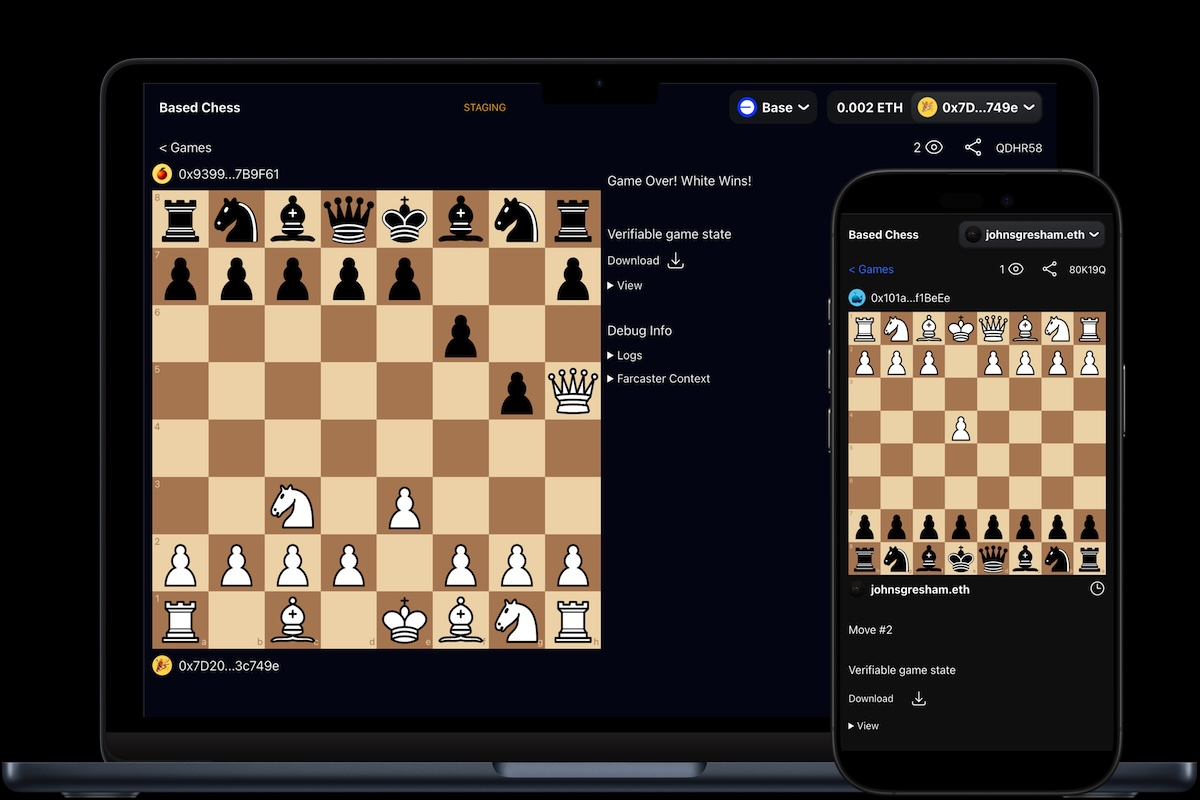
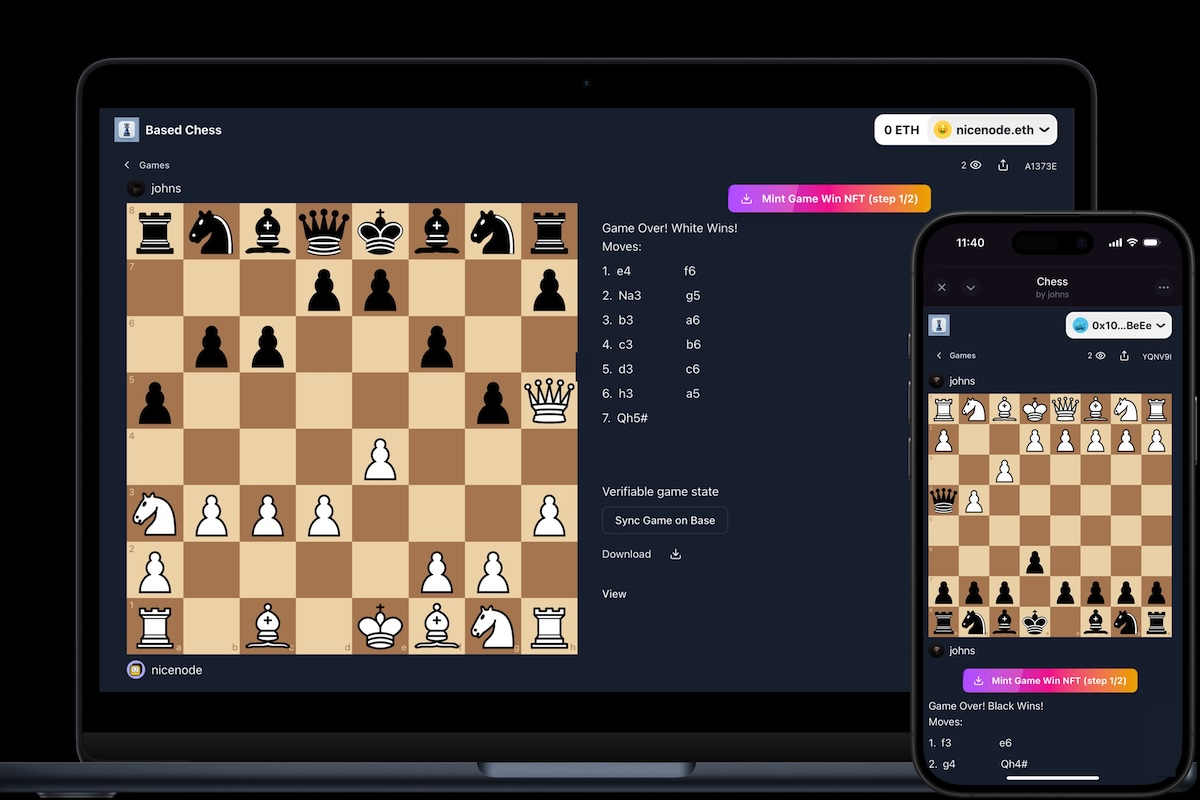
new landing page screenshots

diff --git a/src/app/page.tsx b/src/app/page.tsx
@@ -148,13 +148,13 @@ export default function Page() {
 			{/* Main Content */}
 			<div className="flex flex-col md:min-h-[500px] md:flex-row md:gap-14 w-full items-center space-y-6">
 				{/* Devices image */}
-				<div className="md:w-1/2">
+				<div className="md:w-[65%]">
 					<Image
-						src="/screenshot.png"
-						alt="Based Chess iPhone screenshot"
+						src="/screenshots.png"
+						alt="Based Chess Laptop and iPhone screenshots"
 						width={3000}
 						height={1957}
-						className="md:pl-10 lg:pl-28"
+						className="md:pl-6 "
 						priority
 					/>
 				</div>

diff --git a/src/components/util/ErudaEnabler.tsx b/src/components/util/ErudaEnabler.tsx
@@ -18,8 +18,8 @@ export const ErudaEnabler = () => {
 		if (isDevMode && isMounted) {
 			console.log("initializing eruda");
 			import("eruda").then((eruda) => {
-				eruda.default.init();
 				setIsInitialized(true);
+				eruda.default.init();
 			});
 		} else {
 			if (isInitialized) {
